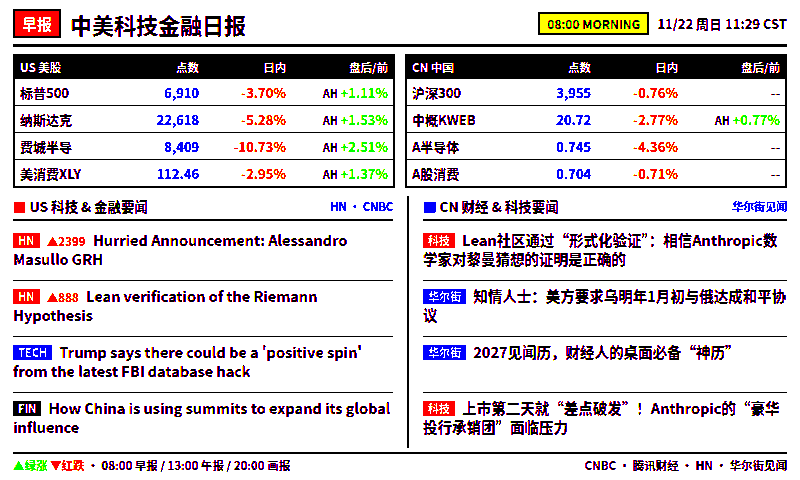
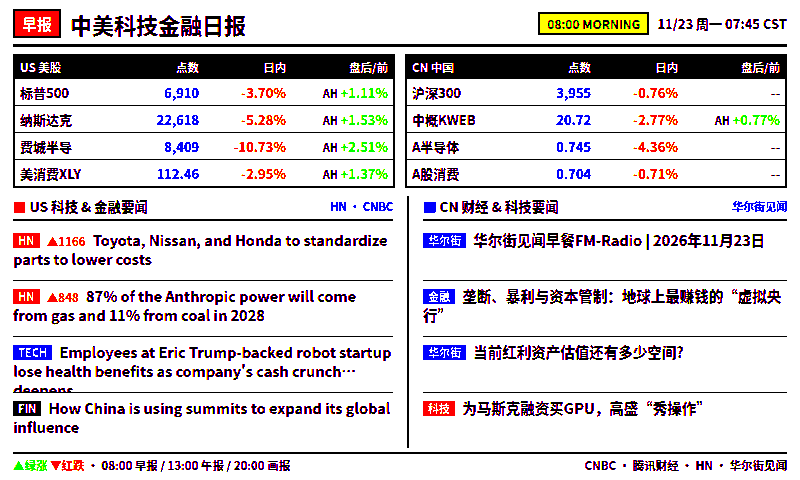
Update E1002 board (2026-11-23 07:45 CST)

diff --git a/docs/hn_render.html b/docs/hn_render.html
@@ -52,118 +52,206 @@
     font-size: 11.5px; font-weight: 800;
   }
 
-  .ev-body {
-    display: grid; grid-template-columns: 370px 390px; gap: 14px;
-    flex: 1; min-height: 0; align-items: stretch;
+  .markets { display: grid; grid-template-columns: 1fr 1fr; gap: 10px; margin-bottom: 8px; }
+  .m-box { border: 2px solid var(--ink); }
+  .m-table { width: 100%; border-collapse: collapse; table-layout: fixed; }
+  .m-table thead th {
+    background: var(--ink); color: var(--paper);
+    font-size: 11.5px; font-weight: 900; padding: 3px 5px; text-align: left;
   }
-  .cal-panel {
-    display: flex; flex-direction: column; justify-content: space-between;
-    border: 2px solid var(--ink); padding: 12px 14px;
+  .m-table thead th.th-num { text-align: right; }
+  .m-table tbody td {
+    padding: 3.5px 5px; font-size: 13px; font-weight: 700;
+    border-top: 1px solid var(--ink); white-space: nowrap;
   }
-  .cal-top {
-    display: flex; justify-content: space-between; align-items: center;
-    border-bottom: 2px solid var(--ink); padding-bottom: 6px;
-  }
-  .cal-month { font-size: 16px; font-weight: 900; letter-spacing: 1px; }
-  .cal-wk-tag {
-    background: var(--yellow); border: 2px solid var(--ink);
-    font-size: 12px; font-weight: 900; padding: 1px 7px;
-  }
-  .cal-day-wrap {
-    display: flex; align-items: baseline; justify-content: space-between;
-    padding: 4px 0;
-  }
-  .cal-day-num {
-    font-family: Georgia, "Times New Roman", serif;
-    font-size: 92px; font-weight: 900; line-height: 0.95; color: var(--ink);
-  }
-  .cal-day-side { text-align: right; }
-  .cal-wk-cn { font-size: 24px; font-weight: 900; color: var(--red); }
-  .cal-wk-en { font-size: 13px; font-weight: 900; letter-spacing: 0.8px; color: var(--blue); }
+  .m-name { width: 28%; }
+  .m-px { width: 22%; text-align: right; color: var(--blue); font-weight: 800; font-variant-numeric: tabular-nums; }
+  .m-day { width: 23%; text-align: right; font-variant-numeric: tabular-nums; }
+  .m-ext { width: 27%; text-align: right; font-variant-numeric: tabular-nums; }
+  .m-sym { font-size: 11px; font-weight: 900; color: var(--blue); }
 
-  .prog-box {
-    border-top: 2px solid var(--ink); border-bottom: 2px solid var(--ink);
-    padding: 8px 0;
+  .news-grid { display: grid; grid-template-columns: 1fr 1fr; gap: 14px; flex: 1; min-height: 0; }
+  .news-col { display: flex; flex-direction: column; min-height: 0; }
+  .news-col-right { border-left: 2px solid var(--ink); padding-left: 14px; }
+  .sec-head {
+    display: flex; align-items: center; justify-content: space-between;
+    border-bottom: 2px solid var(--ink); padding-bottom: 3px; margin-bottom: 4px;
   }
-  .prog-head {
-    display: flex; justify-content: space-between;
-    font-size: 12.5px; font-weight: 900; margin-bottom: 5px;
+  .sec-title { font-size: 13.5px; font-weight: 900; }
+  .sec-dot-red { color: var(--red); }
+  .sec-dot-blue { color: var(--blue); }
+  .news-list { display: flex; flex-direction: column; flex: 1; min-height: 0; }
+  .news-item {
+    flex: 1; display: -webkit-box; -webkit-line-clamp: 2; -webkit-box-orient: vertical;
+    overflow: hidden; padding: 5px 0; border-bottom: 1px solid var(--ink);
+    font-size: 14.5px; font-weight: 700; line-height: 1.32;
   }
-  .prog-bar {
-    width: 100%; height: 14px; border: 2px solid var(--ink); background: var(--paper);
+  .news-item:last-child { border-bottom: none; }
+  .n-tag {
+    display: inline-block; font-size: 11px; font-weight: 900;
+    padding: 1px 5px; margin-right: 4px; vertical-align: 1px; color: var(--paper); line-height: 1.15;
   }
-  .prog-fill {
-    height: 100%; width: 89%; background: var(--blue);
-  }
-
-  .quote-box { padding-top: 6px; }
-  .quote-txt {
-    font-family: Georgia, "Times New Roman", serif;
-    font-size: 15px; font-weight: 900; line-height: 1.3; margin-bottom: 4px;
-  }
-  .quote-auth { font-size: 12px; font-weight: 900; color: var(--red); text-align: right; }
-
-  .art-panel {
-    display: flex; align-items: center; justify-content: center;
-  }
-
-  .ticker-bar {
-    border: 2px solid var(--ink); background: var(--paper);
-    margin-top: 8px; padding: 4px 8px;
-    display: flex; justify-content: space-between; align-items: center;
-    font-size: 11.5px; font-weight: 800; white-space: nowrap; overflow: hidden;
-  }
-  .e-px { color: var(--blue); font-weight: 900; }
-  .e-ext { color: var(--ink); font-size: 10.5px; }
+  .tag-red { background: var(--red); }
+  .tag-blue { background: var(--blue); }
+  .tag-black { background: var(--ink); }
+  .n-meta { font-size: 11.5px; font-weight: 900; color: var(--red); margin-right: 4px; }
 </style>
 </head>
 <body>
   <div class="page">
     <header class="masthead">
       <div class="brand">
-        <span class="badge">晚间画报</span>
-        <span class="title">DAILY PRINT</span>
+        <span class="badge">早报</span>
+        <span class="title">中美科技金融日报</span>
       </div>
       <div class="meta-right">
-        <span class="edition-pill">20:00 EVENING</span>
-        <span class="date-str">2026.11.22</span>
+        <span class="edition-pill">08:00 MORNING</span>
+        <span class="date-str">11/23 周一 07:45 CST</span>
       </div>
     </header>
 
-    <main class="ev-body">
-      <section class="cal-panel">
-        <div class="cal-top">
-          <span class="cal-month">NOV 2026</span>
-          <span class="cal-wk-tag">DAY 326 / 365</span>
-        </div>
-        <div class="cal-day-wrap">
-          <div class="cal-day-num">22</div>
-          <div class="cal-day-side">
-            <div class="cal-wk-cn">星期日</div>
-            <div class="cal-wk-en">SUNDAY</div>
-          </div>
-        </div>
-        <div class="prog-box">
-          <div class="prog-head">
-            <span>2026 YEAR PROGRESS</span>
-            <span>89% · 余 39 天</span>
-          </div>
-          <div class="prog-bar"><div class="prog-fill"></div></div>
-        </div>
-        <div class="quote-box">
-          <div class="quote-txt">“In the short run, the market is a voting machine; in the long run, a weighing machine.”</div>
-          <div class="quote-auth">— Benjamin Graham</div>
-        </div>
-      </section>
+    <section class="markets">
+      <div class="m-box">
+        <table class="m-table">
+          <thead>
+            <tr>
+              <th style="width:28%">US 美股</th>
+              <th class="th-num" style="width:22%">点数</th>
+              <th class="th-num" style="width:23%">日内</th>
+              <th class="th-num" style="width:27%">盘后/前</th>
+            </tr>
+          </thead>
+          <tbody>
+            <tr>
+              <td class="m-name">标普500</td>
+              <td class="m-px">6,910</td>
+              <td class="m-day"><span class="down">-3.70%</span></td>
+              <td class="m-ext"><span class="up"><span class="ext-pfx">AH </span>+1.11%</span></td>
+            </tr>
 
-      <section class="art-panel">
-        <svg xmlns="http://www.w3.org/2000/svg" width="390" height="354" viewBox="0 0 390 354"><rect x="0" y="0" width="130" height="118" fill="#000000" stroke="#000000" stroke-width="3"/><path d="M 14 59 A 51 51 0 0 1 116 59 Z" fill="#FFFFFF" stroke="#000000" stroke-width="3"/><circle cx="65" cy="87" r="14" fill="#FFFF00" stroke="#000000" stroke-width="3"/><rect x="130" y="0" width="130" height="118" fill="#FFFF00" stroke="#000000" stroke-width="3"/><path d="M 144 59 A 51 51 0 0 1 246 59 Z" fill="#000000" stroke="#000000" stroke-width="3"/><circle cx="195" cy="87" r="14" fill="#FF0000" stroke="#000000" stroke-width="3"/><rect x="260" y="0" width="130" height="118" fill="#FFFFFF" stroke="#000000" stroke-width="3"/><circle cx="325" cy="59" r="47" fill="#0000FF" stroke="#000000" stroke-width="3"/><rect x="0" y="118" width="130" height="118" fill="#FFFF00" stroke="#000000" stroke-width="3"/><polygon points="0,118 130,118 0,236" fill="#FFFFFF" stroke="#000000" stroke-width="3"/><rect x="130" y="118" width="130" height="118" fill="#FFFF00" stroke="#000000" stroke-width="3"/><circle cx="195" cy="177" r="47" fill="#000000" stroke="#000000" stroke-width="3"/><rect x="260" y="118" width="130" height="118" fill="#FFFF00" stroke="#000000" stroke-width="3"/><polygon points="260,118 390,236 260,236" fill="#00FF00" stroke="#000000" stroke-width="3"/><rect x="0" y="236" width="130" height="118" fill="#FFFFFF" stroke="#000000" stroke-width="3"/><path d="M 14 295 A 51 51 0 0 1 116 295 Z" fill="#FF0000" stroke="#000000" stroke-width="3"/><circle cx="65" cy="323" r="14" fill="#FFFF00" stroke="#000000" stroke-width="3"/><rect x="130" y="236" width="130" height="118" fill="#FFFFFF" stroke="#000000" stroke-width="3"/><circle cx="195" cy="295" r="47" fill="#FFFFFF" stroke="#000000" stroke-width="3"/><rect x="260" y="236" width="130" height="118" fill="#FF0000" stroke="#000000" stroke-width="3"/><rect x="274" y="252" width="102" height="16" fill="#00FF00" stroke="#000000" stroke-width="2"/><rect x="274" y="282" width="102" height="16" fill="#0000FF" stroke="#000000" stroke-width="2"/><rect x="274" y="312" width="102" height="16" fill="#00FF00" stroke="#000000" stroke-width="2"/><rect x="1.5" y="1.5" width="387" height="351" fill="none" stroke="#000000" stroke-width="3"/></svg>
+            <tr>
+              <td class="m-name">纳斯达克</td>
+              <td class="m-px">22,618</td>
+              <td class="m-day"><span class="down">-5.28%</span></td>
+              <td class="m-ext"><span class="up"><span class="ext-pfx">AH </span>+1.53%</span></td>
+            </tr>
+
+            <tr>
+              <td class="m-name">费城半导</td>
+              <td class="m-px">8,409</td>
+              <td class="m-day"><span class="down">-10.73%</span></td>
+              <td class="m-ext"><span class="up"><span class="ext-pfx">AH </span>+2.51%</span></td>
+            </tr>
+
+            <tr>
+              <td class="m-name">美消费XLY</td>
+              <td class="m-px">112.46</td>
+              <td class="m-day"><span class="down">-2.95%</span></td>
+              <td class="m-ext"><span class="up"><span class="ext-pfx">AH </span>+1.37%</span></td>
+            </tr></tbody>
+        </table>
+      </div>
+      <div class="m-box">
+        <table class="m-table">
+          <thead>
+            <tr>
+              <th style="width:28%">CN 中国</th>
+              <th class="th-num" style="width:22%">点数</th>
+              <th class="th-num" style="width:23%">日内</th>
+              <th class="th-num" style="width:27%">盘后/前</th>
+            </tr>
+          </thead>
+          <tbody>
+            <tr>
+              <td class="m-name">沪深300</td>
+              <td class="m-px">3,955</td>
+              <td class="m-day"><span class="down">-0.76%</span></td>
+              <td class="m-ext"><span class="flat">--</span></td>
+            </tr>
+
+            <tr>
+              <td class="m-name">中概KWEB</td>
+              <td class="m-px">20.72</td>
+              <td class="m-day"><span class="down">-2.77%</span></td>
+              <td class="m-ext"><span class="up"><span class="ext-pfx">AH </span>+0.77%</span></td>
+            </tr>
+
+            <tr>
+              <td class="m-name">A半导体</td>
+              <td class="m-px">0.745</td>
+              <td class="m-day"><span class="down">-4.36%</span></td>
+              <td class="m-ext"><span class="flat">--</span></td>
+            </tr>
+
+            <tr>
+              <td class="m-name">A股消费</td>
+              <td class="m-px">0.704</td>
+              <td class="m-day"><span class="down">-0.71%</span></td>
+              <td class="m-ext"><span class="flat">--</span></td>
+            </tr></tbody>
+        </table>
+      </div>
+    </section>
+
+    <main class="news-grid">
+      <section class="news-col">
+        <div class="sec-head">
+          <span class="sec-title"><span class="sec-dot-red">■</span> US 科技 &amp; 金融要闻</span>
+          <span class="m-sym">HN · CNBC</span>
+        </div>
+        <div class="news-list">
+            <article class="news-item">
+              <span class="n-tag tag-red">HN</span> <span class="n-meta">▲1166</span>
+              <span class="n-title">Toyota, Nissan, and Honda to standardize parts to lower costs</span>
+            </article>
+
+            <article class="news-item">
+              <span class="n-tag tag-red">HN</span> <span class="n-meta">▲848</span>
+              <span class="n-title">87% of the Anthropic power will come from gas and 11% from coal in 2028</span>
+            </article>
+
+            <article class="news-item">
+              <span class="n-tag tag-blue">TECH</span>
+              <span class="n-title">Employees at Eric Trump-backed robot startup lose health benefits as company&#x27;s cash crunch deepens</span>
+            </article>
+
+            <article class="news-item">
+              <span class="n-tag tag-black">FIN</span>
+              <span class="n-title">How China is using summits to expand its global influence</span>
+            </article></div>
+      </section>
+      <section class="news-col news-col-right">
+        <div class="sec-head">
+          <span class="sec-title"><span class="sec-dot-blue">■</span> CN 财经 &amp; 科技要闻</span>
+          <span class="m-sym">华尔街见闻</span>
+        </div>
+        <div class="news-list">
+            <article class="news-item">
+              <span class="n-tag tag-blue">华尔街</span>
+              <span class="n-title">华尔街见闻早餐FM-Radio | 2026年11月23日</span>
+            </article>
+
+            <article class="news-item">
+              <span class="n-tag tag-blue">金融</span>
+              <span class="n-title">垄断、暴利与资本管制：地球上最赚钱的“虚拟央行”</span>
+            </article>
+
+            <article class="news-item">
+              <span class="n-tag tag-blue">华尔街</span>
+              <span class="n-title">当前红利资产估值还有多少空间?</span>
+            </article>
+
+            <article class="news-item">
+              <span class="n-tag tag-red">科技</span>
+              <span class="n-title">为马斯克融资买GPU，高盛“秀操作”</span>
+            </article></div>
       </section>
     </main>
 
-    <div class="ticker-bar">
-      <span class="e-tick"><b>标普500</b> <span class="e-px">6,910</span> <span class="down">-3.70%</span> <span class="e-ext">AH+1.1%</span></span><span class="e-tick"><b>纳斯达克</b> <span class="e-px">22,618</span> <span class="down">-5.28%</span> <span class="e-ext">AH+1.5%</span></span><span class="e-tick"><b>费城半导</b> <span class="e-px">8,409</span> <span class="down">-10.73%</span> <span class="e-ext">AH+2.5%</span></span><span class="e-tick"><b>沪深300</b> <span class="e-px">3,955</span> <span class="down">-0.76%</span></span>
-    </div>
+    <footer class="footer">
+      <span><span class="up">▲绿涨</span> <span class="down">▼红跌</span> · 08:00 早报 / 13:00 午报 / 20:00 画报</span>
+      <span>CNBC · 腾讯财经 · HN · 华尔街见闻</span>
+    </footer>
   </div>
 </body>
 </html>
